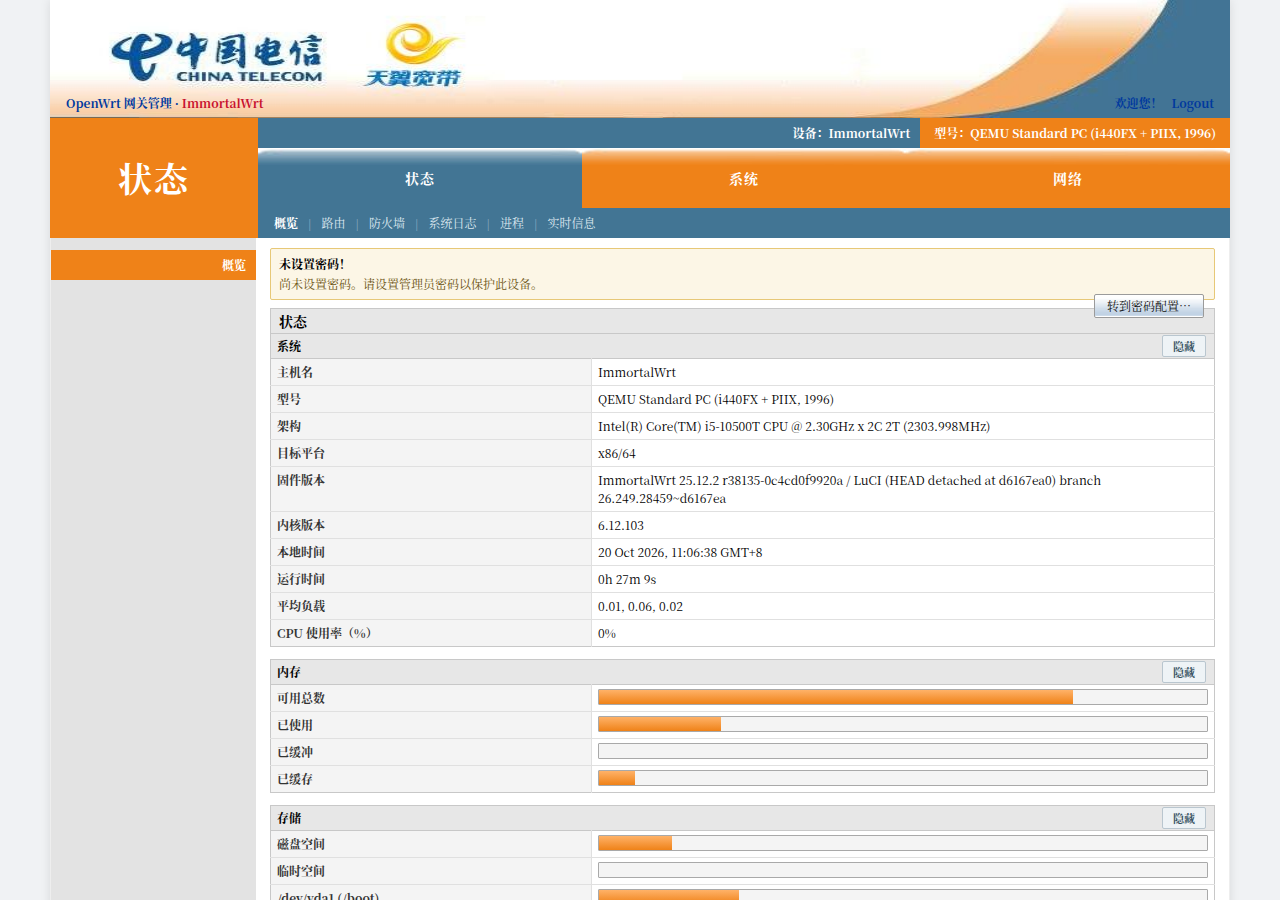
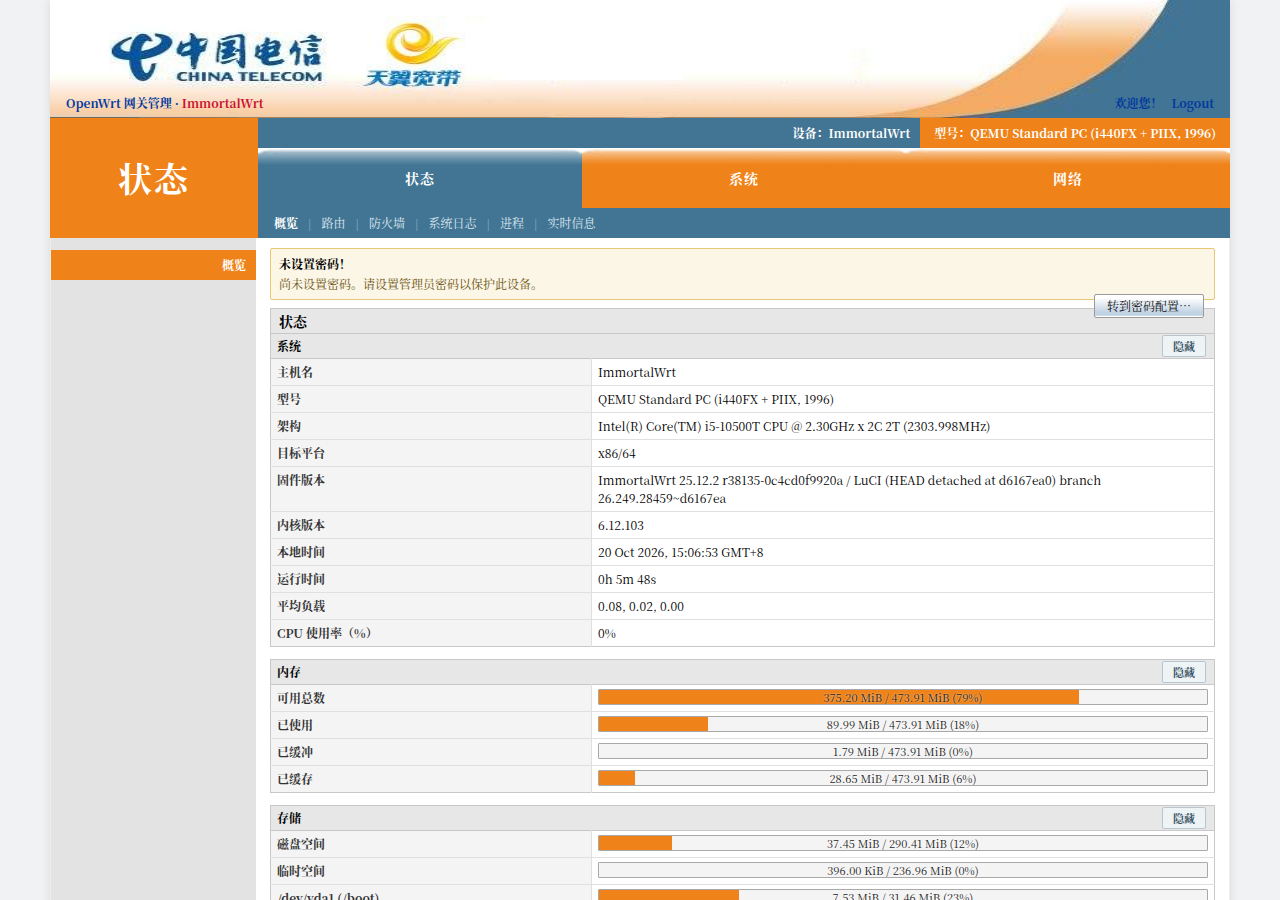
Progress bars: solid orange fill and inline value labels
Bars no longer use the orange gradient (flat #EF8218 to match the
gateway look). LuCI only exposes the 'value / total (percent)' text in
the progressbar title attribute, so menu-ctmodem.js now mirrors it into
a centered span inside each bar, rescanning via MutationObserver for
asynchronously rendered views.

diff --git a/luci-theme-ctmodem/htdocs/luci-static/ctmodem/menu-ctmodem.js b/luci-theme-ctmodem/htdocs/luci-static/ctmodem/menu-ctmodem.js
@@ -232,6 +232,75 @@
 		}, 500);
 	}
 
+	/* 进度条内的数值：LuCI 的 progressbar 只把「值 / 总值 (百分比)」写在
+	 * title 属性上（如 1.2 GB / 2.0 GB (43%)），这里把它插进条中央显示。
+	 * 视图渲染是异步的，用 MutationObserver + 去抖重新扫描。
+	 */
+	var labelTimer = null;
+
+	function labelProgressBars(root) {
+		var bars = (root || document).querySelectorAll('.cbi-progressbar');
+
+		for (var i = 0; i < bars.length; i++) {
+			var bar = bars[i];
+			var fill = bar.firstElementChild;
+			var text = bar.getAttribute('title') || '';
+
+			if (!fill || fill.nodeName !== 'DIV')
+				continue;
+
+			var span = fill.querySelector('span.ont-progress-label');
+
+			if (!text) {
+				if (span)
+					fill.removeChild(span);
+				continue;
+			}
+
+			if (!span) {
+				span = document.createElement('span');
+				span.className = 'ont-progress-label';
+				fill.appendChild(span);
+			}
+
+			if (span.textContent !== text)
+				span.textContent = text;
+		}
+	}
+
+	function watchProgressBars() {
+		labelProgressBars();
+
+		if (typeof MutationObserver === 'undefined')
+			return;
+
+		var mo = new MutationObserver(function (records) {
+			for (var i = 0; i < records.length; i++) {
+				var nodes = records[i].addedNodes;
+
+				for (var j = 0; j < nodes.length; j++) {
+					var n = nodes[j];
+
+					/* 自己插入的标签不要再触发一遍，避免无谓循环 */
+					if (n.nodeType !== 1 || n.classList.contains('ont-progress-label'))
+						continue;
+
+					if (labelTimer)
+						return;
+
+					labelTimer = setTimeout(function () {
+						labelTimer = null;
+						labelProgressBars();
+					}, 80);
+
+					return;
+				}
+			}
+		});
+
+		mo.observe(document.body, { childList: true, subtree: true });
+	}
+
 	/* OpenClash 这类重度自定义插件：内容区回退为原版样式 */
 	function markPlainPage() {
 		var content = document.getElementById('maincontent');
@@ -249,6 +318,7 @@
 			render(tree);
 			markPlainPage();
 			watchPageTabs();
+			watchProgressBars();
 		}).catch(function (e) {
 			console.error('menu-ctmodem: failed', e);
 		});

diff --git a/luci-theme-ctmodem/htdocs/luci-static/ctmodem/cascade.css b/luci-theme-ctmodem/htdocs/luci-static/ctmodem/cascade.css
@@ -1029,19 +1029,27 @@ div:has(> .ifacebox) {
 
 .progress > div, .cbi-progressbar > div {
 	height: 100%;
-	background: linear-gradient(#FFB268, #EF8218);
+	background: #EF8218;
 	transition: width .3s ease;
 }
 
+/* 条内数值：LuCI 只把「值 / 总值 (百分比)」放在 title 上，
+ * menu-ctmodem.js 会把它插成 <span class="ont-progress-label">。
+ * 因为填充条本身未定位，span 的包含块是整条轨道，所以文字始终居中于轨道。 */
 .cbi-progressbar > div > span {
 	position: absolute;
 	left: 0;
 	right: 0;
 	top: 0;
+	height: 100%;
 	text-align: center;
 	line-height: 14px;
 	font-size: 11px;
-	color: #222;
+	color: #1B1B1B;
+	text-shadow: 0 0 2px rgba(255, 255, 255, .9);
+	white-space: nowrap;
+	overflow: hidden;
+	pointer-events: none;
 }
 
 /* 模态框 */

diff --git a/README.md b/README.md
@@ -35,6 +35,8 @@
   会在视觉上移到左侧栏，用 CSS 绝对定位实现、DOM 不移动，cbi 自己的切换逻辑照常工作；
   同时补齐了 LuCI 的 `[data-tab-title]` / `[data-tab-active]` 面板显隐规则。
 - 完整覆盖 LuCI 常用组件：`cbi-*` 表单、表格、按钮、标签页、模态框、下拉、动态列表、进度条、接口卡片、提示条等。
+- **进度条**：橙色单色平涂（无渐变），并把 LuCI 原本只放在 `title` 属性里的「值 / 总值 (百分比)」
+  居中显示在条内（如概览页的内存、存储），鼠标悬停之外的场合也能直接读到数值。
 - 响应式：≤900px 时收起左栏、菜单折行，手机上也能用。
 - 兼容 LuCI 24.10 / 25.x 的 **ucode 模板**体系（不提供 Lua 模板）。
 
